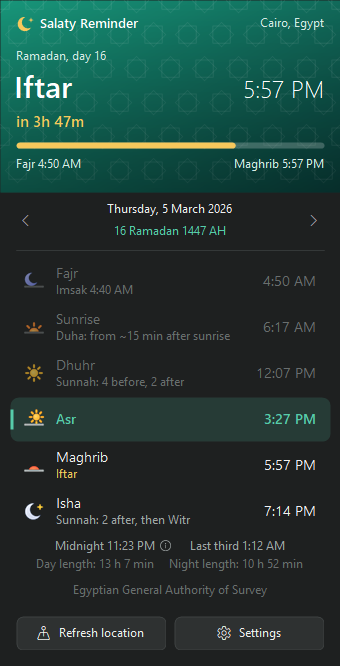
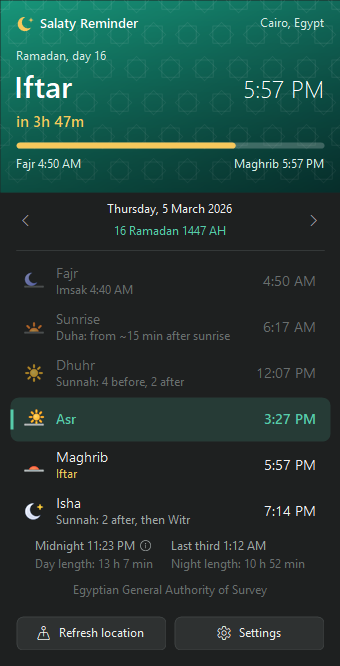
Night times and day and night length in aligned columns

Changed region(s): [[0.0882, 0.8108, 0.9118, 0.8709]]

diff --git a/src/SalatyReminder/UI/Card/PrayerCard.cs b/src/SalatyReminder/UI/Card/PrayerCard.cs
@@ -365,28 +365,32 @@ sealed class PrayerCard : Form
         {
             var night = app.NightAfter(day);
             string a = L.F("Midnight", L.Time(night.Midnight, st.Use24h)), b = L.F("LastThird", L.Time(night.LastThird, st.Use24h));
+            var (dayLen, nightLen) = app.DayAndNight(day);
+            string c = L.F("DayLength", L.Span(dayLen)), d = L.F("NightLength", L.Span(nightLen));
             var mf = TextFormatFlags.NoPadding | TextFormatFlags.SingleLine;
-            int wa = TextRenderer.MeasureText(g, a, fTiny, Size.Empty, mf).Width, wb = TextRenderer.MeasureText(g, b, fTiny, Size.Empty, mf).Width;
-            int icon = Px(13), gap = Px(4), sep = Px(18), lineY = Px(y + 2), lineH = Px(20);
-            int total = wa + gap + icon + sep + wb, x0 = (Width - total) / 2;
-            // Left to right: "Midnight 10:55 PM (i)   Last third 12:54 AM"; Arabic mirrors the order.
-            int ax = L.Ar ? x0 + total - wa : x0;
+            int M(string s) => TextRenderer.MeasureText(g, s, fTiny, Size.Empty, mf).Width;
+            int wa = M(a), wb = M(b), wc = M(c), wd = M(d);
+            int icon = Px(13), gap = Px(4), sep = Px(18), lineY = Px(y + 2), lineH = Px(20), line2 = lineY + Px(18);
+            // Two columns: Midnight over the day length, the last third over the night length, each column
+            // starting at the same edge (the left in English, the right in Arabic).
+            int col1 = Math.Max(wa + gap + icon, wc), col2 = Math.Max(wb, wd);
+            int total = col1 + sep + col2, x0 = (Width - total) / 2;
+            int c1 = L.Ar ? x0 + col2 + sep : x0, c2 = L.Ar ? x0 : x0 + col1 + sep;
+            int ax = L.Ar ? c1 + col1 - wa : c1;
             int ix = L.Ar ? ax - gap - icon : ax + wa + gap;
-            int bx = L.Ar ? x0 : ix + icon + sep;
+            int bx = L.Ar ? c2 + col2 - wb : c2;
+            int cx = L.Ar ? c1 + col1 - wc : c1, dx = L.Ar ? c2 + col2 - wd : c2;
             var tf = mf | TextFormatFlags.VerticalCenter | (L.Ar ? TextFormatFlags.RightToLeft : 0);
             TextRenderer.DrawText(g, a, fTiny, new Rectangle(ax, lineY, wa + Px(2), lineH), dim, tf);
             TextRenderer.DrawText(g, b, fTiny, new Rectangle(bx, lineY, wb + Px(2), lineH), dim, tf);
+            TextRenderer.DrawText(g, c, fTiny, new Rectangle(cx, line2, wc + Px(2), lineH), faint, tf);
+            TextRenderer.DrawText(g, d, fTiny, new Rectangle(dx, line2, wd + Px(2), lineH), faint, tf);
             rInfo = new Rectangle(ix - Px(2), lineY, icon + Px(4), lineH);
             // Centred on the digits' ink, a little taller than them, not on the text box (whose middle is lower).
             var (inkTop, inkBottom) = Art.TextInk(fTiny, lineH);
             // One pixel taller than the digits on each side, so its middle row is exactly theirs.
             float inkH = inkBottom - inkTop;
             Art.GlyphFit(g, "", new RectangleF(ix, lineY + inkTop - 1, icon, inkH + 2), tipShown ? accent : dim);
-            // Under it, how long the day (Fajr to Maghrib) and the night (Maghrib to Fajr) are.
-            var (dayLen, nightLen) = app.DayAndNight(day);
-            string len = L.F("DayLength", L.Span(dayLen)) + "     " + L.F("NightLength", L.Span(nightLen));
-            TextRenderer.DrawText(g, len, fTiny, new Rectangle(0, lineY + Px(18), Width, lineH), faint,
-                mf | TextFormatFlags.VerticalCenter | TextFormatFlags.HorizontalCenter | (L.Ar ? TextFormatFlags.RightToLeft : 0));
             y += NightH;
         }
 

diff --git a/CHANGELOG.md b/CHANGELOG.md
@@ -3,6 +3,11 @@
 All notable changes to Salaty Reminder are listed here.
 The format follows [Keep a Changelog](https://keepachangelog.com/en/1.1.0/) and versions follow [Semantic Versioning](https://semver.org/).
 
+## [1.6.4] - 2026-11-17
+
+### Changed
+- The night times and the day and night length line up in two columns: Midnight over the day length, the last third over the night length.
+
 ## [1.6.3] - 2026-11-17
 
 ### Added
@@ -143,6 +148,7 @@ The format follows [Keep a Changelog](https://keepachangelog.com/en/1.1.0/) and 
 - Automatic updates from GitHub Releases with SHA-256 verification.
 - Windows 10 support: the task-button strip is shrunk to make room for the widget.
 
+[1.6.4]: https://github.com/medovanx/salaty-reminder/releases/tag/v1.6.4
 [1.6.3]: https://github.com/medovanx/salaty-reminder/releases/tag/v1.6.3
 [1.6.2]: https://github.com/medovanx/salaty-reminder/releases/tag/v1.6.2
 [1.6.1]: https://github.com/medovanx/salaty-reminder/releases/tag/v1.6.1
